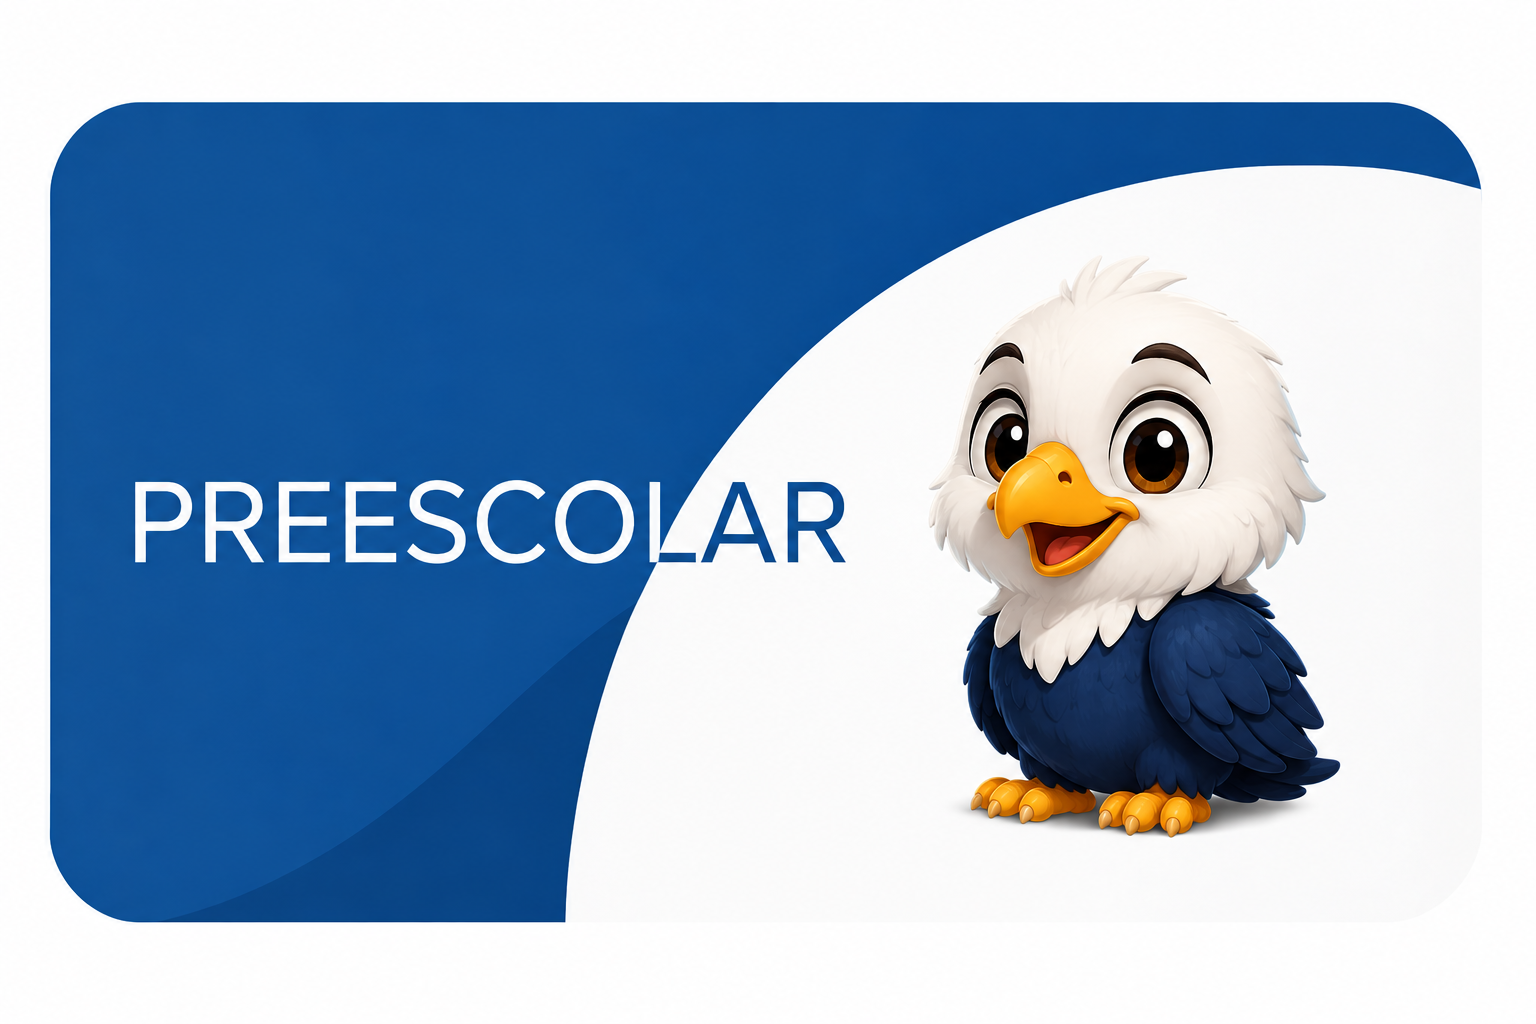
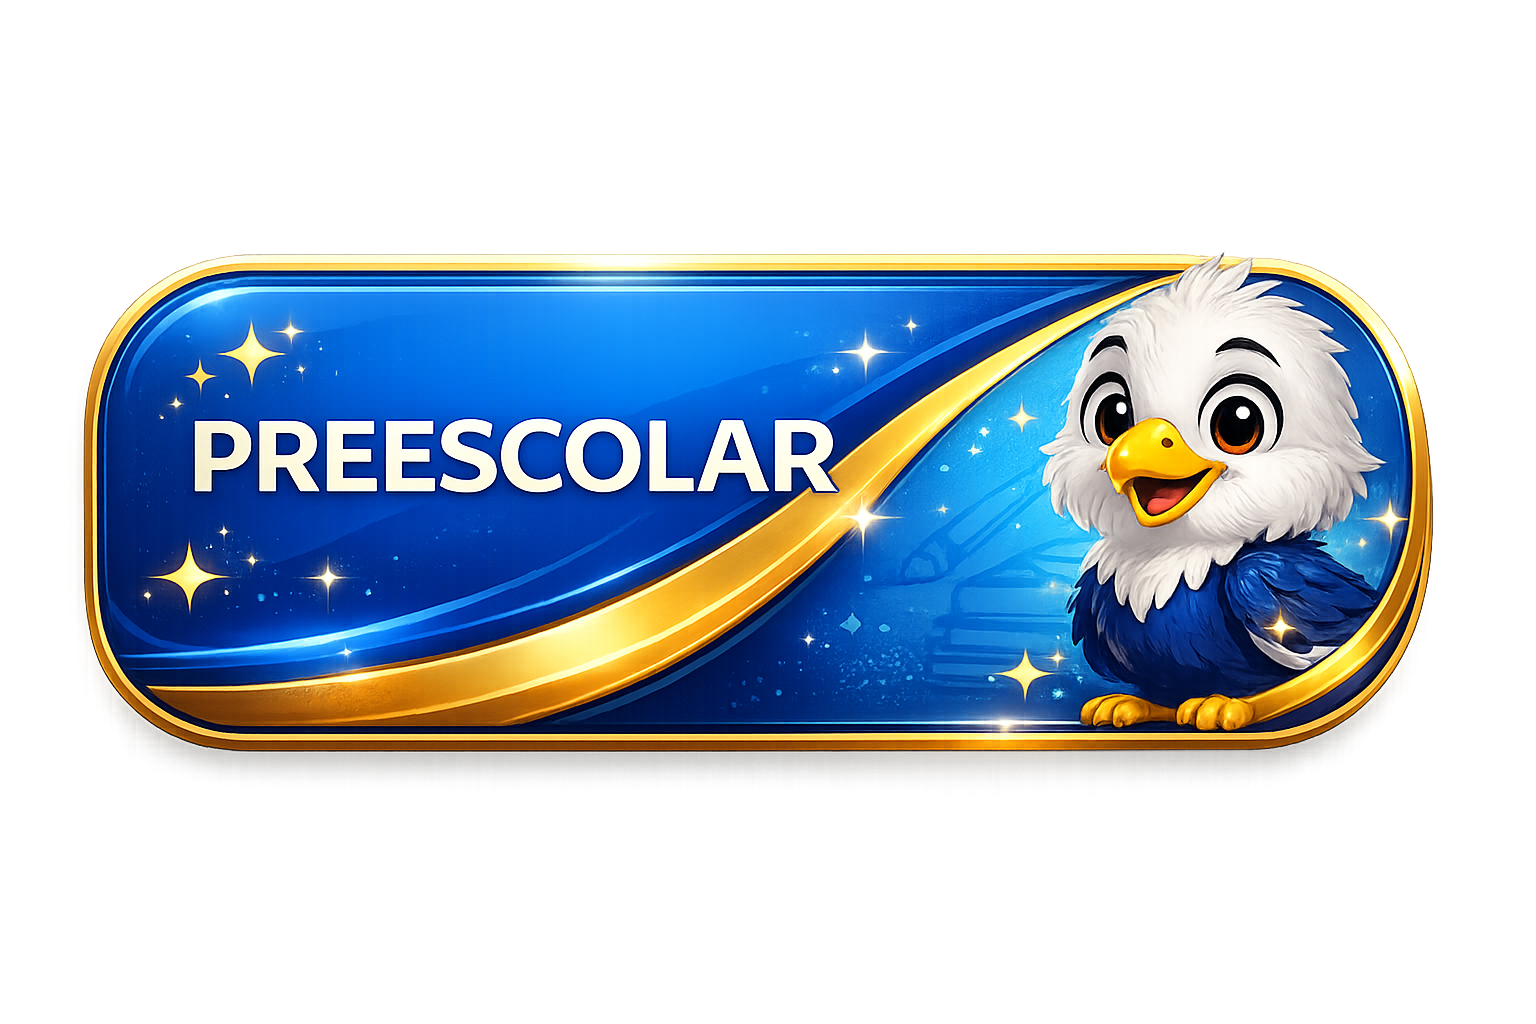
coso

diff --git a/css/style.css b/css/style.css
@@ -260,12 +260,23 @@ a:focus-visible, button:focus-visible, input:focus-visible, textarea:focus-visib
 
 .tarjeta-nivel:hover { transform: translateY(-4px); box-shadow: var(--sombra-hover); }
 
-.tarjeta-nivel .tarjeta-nivel-img {
-  width: 100%;
-  aspect-ratio: 3 / 2;
-  object-fit: cover;
-  display: block;
+.tarjeta-nivel .tarjeta-nivel-insignia {
+  background: linear-gradient(165deg, var(--azul-tinte) 0%, var(--blanco) 75%);
+  padding: 34px 22px 20px;
+  display: flex;
+  align-items: center;
+  justify-content: center;
 }
+
+.tarjeta-nivel .tarjeta-nivel-insignia img {
+  width: 100%;
+  max-width: 300px;
+  height: auto;
+  filter: drop-shadow(0 12px 18px rgba(22, 48, 92, 0.20));
+  transition: transform 0.2s ease;
+}
+
+.tarjeta-nivel:hover .tarjeta-nivel-insignia img { transform: scale(1.03); }
 
 .tarjeta-nivel-contenido {
   padding: 20px 22px 24px;
@@ -316,69 +327,101 @@ a:focus-visible, button:focus-visible, input:focus-visible, textarea:focus-visib
 }
 
 /* ============================================================
-   NIVEL — nivel.html (grilla de grados)
+   NIVEL — nivel.html (banner del nivel + grados en cuadritos)
    ============================================================ */
 
-.encabezado-nivel {
-  padding: 46px 0 30px;
-  border-bottom: 1px solid var(--borde);
+.hero-nivel { padding: 22px 0 0; }
+
+.hero-nivel-img-cont {
+  border-radius: var(--radio);
+  overflow: hidden;
+  box-shadow: var(--sombra);
+  line-height: 0;
 }
 
-.encabezado-nivel .pastilla { margin-bottom: 14px; }
-.encabezado-nivel h1 { font-size: clamp(1.8rem, 3.4vw, 2.5rem); color: var(--azul); }
-.encabezado-nivel p { max-width: 560px; margin-top: 10px; }
+.hero-nivel-img-cont img {
+  width: 100%;
+  height: auto;
+  display: block;
+}
 
-.grados-seccion { padding: 40px 0 70px; }
+.panel-grados {
+  background: var(--blanco);
+  border-radius: var(--radio);
+  box-shadow: var(--sombra-hover);
+  margin: -44px 0 0;
+  padding: 36px 32px 8px;
+  position: relative;
+  z-index: 5;
+}
+
+@media (max-width: 640px) {
+  .panel-grados { margin-top: -28px; padding: 26px 20px 4px; }
+}
+
+.panel-grados .pastilla { margin-bottom: 12px; }
+.panel-grados h2 { font-size: clamp(1.4rem, 2.6vw, 1.85rem); color: var(--azul); margin-bottom: 8px; }
+.panel-grados > p { max-width: 560px; margin-bottom: 26px; }
+
+.grados-seccion { padding: 0 0 70px; }
 
 .grados-grilla {
   display: grid;
-  grid-template-columns: repeat(auto-fill, minmax(230px, 1fr));
-  gap: 20px;
-  position: relative;
+  grid-template-columns: repeat(auto-fill, minmax(210px, 1fr));
+  gap: 18px;
 }
 
 .tarjeta-grado {
-  background: var(--blanco);
-  border: 1px solid var(--borde);
-  border-radius: var(--radio);
-  padding: 24px 22px;
+  position: relative;
+  overflow: hidden;
+  aspect-ratio: 4 / 3;
+  border-radius: var(--radio-chico);
+  padding: 18px;
   display: flex;
   flex-direction: column;
-  gap: 12px;
-  transition: transform 0.15s ease, box-shadow 0.15s ease, border-color 0.15s ease;
+  justify-content: flex-end;
+  color: var(--blanco);
+  background: linear-gradient(155deg, var(--azul-medio) 0%, var(--azul-oscuro) 100%);
+  transition: transform 0.15s ease, box-shadow 0.15s ease;
 }
 
-.tarjeta-grado:hover {
-  transform: translateY(-3px);
-  box-shadow: var(--sombra);
-  border-color: transparent;
+.tarjeta-grado::before {
+  content: "";
+  position: absolute;
+  inset: 0;
+  background: radial-gradient(circle at 85% 8%, rgba(244, 180, 0, 0.30), transparent 55%);
+  pointer-events: none;
 }
 
-.tarjeta-grado .indice {
+.tarjeta-grado:hover { transform: translateY(-4px); box-shadow: var(--sombra); }
+
+.tarjeta-grado .edad {
+  position: relative;
   font-family: var(--fuente-mono);
-  font-size: 0.72rem;
-  color: var(--texto-suave);
+  font-size: 0.68rem;
+  color: var(--amarillo);
+  margin-bottom: 4px;
 }
 
-.tarjeta-grado h3 { font-size: 1.28rem; color: var(--azul); }
-.tarjeta-grado p { font-size: 0.88rem; margin: 0; }
-
-.tarjeta-grado .pie {
-  margin-top: auto;
-  display: flex;
-  align-items: center;
-  justify-content: space-between;
-  padding-top: 6px;
+.tarjeta-grado h3 {
+  position: relative;
+  font-size: 1.35rem;
+  color: var(--blanco);
+  margin-bottom: 8px;
 }
 
 .tarjeta-grado .ver-mas {
+  position: relative;
   font-weight: 600;
-  font-size: 0.86rem;
-  color: var(--azul-medio);
+  font-size: 0.82rem;
+  color: var(--blanco);
+  opacity: 0.9;
   display: inline-flex;
   align-items: center;
   gap: 4px;
 }
+.tarjeta-grado .ver-mas svg { transition: transform 0.15s ease; }
+.tarjeta-grado:hover .ver-mas svg { transform: translateX(4px); }
 
 /* ============================================================
    GRADO — grado.html (detalle: fotos, descripción, inscribirse)

diff --git a/js/main.js b/js/main.js
@@ -22,7 +22,9 @@ function initInicio() {
   NIVELES.forEach((nivel) => {
     const tarjeta = crearElemento(`
       <a class="tarjeta-nivel" href="nivel.html?nivel=${nivel.id}">
-        <img class="tarjeta-nivel-img" src="${nivel.imagen}" alt="${nivel.nombre}">
+        <div class="tarjeta-nivel-insignia">
+          <img src="${nivel.imagen}" alt="Insignia de ${nivel.nombre}">
+        </div>
         <div class="tarjeta-nivel-contenido">
           <span class="lema">${nivel.lema}</span>
           <p>${nivel.descripcion}</p>
@@ -71,23 +73,24 @@ function initNivel() {
   const nivel = obtenerNivel(nivelId) || NIVELES[0];
   const grados = gradosPorNivel(nivel.id);
 
+  $("#nivel-banner-img").src = nivel.banner;
+  $("#nivel-banner-img").alt = `Inscripciones abiertas — ${nivel.nombre}, Real Colegio San José`;
+
   $("#nivel-pastilla").textContent = nivel.nombre;
   if (nivel.color === "amarillo") $("#nivel-pastilla").classList.add("amarilla");
-  $("#nivel-titulo").textContent = nivel.nombre;
+  $("#nivel-titulo").textContent = `Grados de ${nivel.nombre}`;
   $("#nivel-descripcion").textContent = nivel.descripcion;
   document.title = `${nivel.nombre} — Registro Real Colegio San José`;
+  const miga = $("#nivel-titulo-miga");
+  if (miga) miga.textContent = nivel.nombre;
 
   const cont = $("#grados-cont");
-  grados.forEach((grado, i) => {
+  grados.forEach((grado) => {
     const tarjeta = crearElemento(`
       <a class="tarjeta-grado" href="grado.html?grado=${grado.id}">
-        <span class="indice">Grado ${i + 1} de ${grados.length}</span>
+        <span class="edad">${grado.edad}</span>
         <h3>${grado.nombre}</h3>
-        <p>${grado.descripcionCorta}</p>
-        <div class="pie">
-          <span class="pastilla">${grado.edad}</span>
-          <span class="ver-mas">Ver grado ${ICONOS.flecha()}</span>
-        </div>
+        <span class="ver-mas">Ver grado ${ICONOS.flecha()}</span>
       </a>
     `);
     cont.appendChild(tarjeta);

diff --git a/nivel.html b/nivel.html
@@ -25,14 +25,22 @@
 </header>
 
 <main>
-  <section class="encabezado-nivel envoltura">
-    <span class="pastilla" id="nivel-pastilla"></span>
-    <h1 id="nivel-titulo"></h1>
-    <p id="nivel-descripcion"></p>
+  <section class="hero-nivel envoltura">
+    <div class="hero-nivel-img-cont">
+      <img id="nivel-banner-img" src="" alt="">
+    </div>
   </section>
 
-  <section class="grados-seccion envoltura">
-    <div class="grados-grilla" id="grados-cont"></div>
+  <section class="envoltura">
+    <div class="panel-grados">
+      <span class="pastilla" id="nivel-pastilla"></span>
+      <h2 id="nivel-titulo"></h2>
+      <p id="nivel-descripcion"></p>
+
+      <div class="grados-seccion">
+        <div class="grados-grilla" id="grados-cont"></div>
+      </div>
+    </div>
   </section>
 </main>
 
@@ -46,9 +54,6 @@
 <script src="js/data.js"></script>
 <script src="js/iconos.js"></script>
 <script src="js/main.js"></script>
-<script>
-  initNivel();
-  document.getElementById("nivel-titulo-miga").textContent = document.getElementById("nivel-titulo").textContent;
-</script>
+<script>initNivel();</script>
 </body>
 </html>

diff --git a/js/data.js b/js/data.js
@@ -11,7 +11,8 @@ const NIVELES = [
     lema: "Los primeros pasos",
     descripcion: "El punto de partida: juego, exploración y las primeras letras.",
     color: "amarillo",
-    imagen: "assets/nivel-preescolar.png"
+    imagen: "assets/nivel-preescolar.png",
+    banner: "assets/banner-preescolar.png"
   },
   {
     id: "primaria",
@@ -19,7 +20,8 @@ const NIVELES = [
     lema: "Construyendo las bases",
     descripcion: "De Primero a Quinto, donde se afianzan la lectura, la escritura y el pensamiento lógico.",
     color: "azul",
-    imagen: "assets/nivel-primaria.png"
+    imagen: "assets/nivel-primaria.png",
+    banner: "assets/banner-primaria.png"
   },
   {
     id: "secundaria",
@@ -27,7 +29,8 @@ const NIVELES = [
     lema: "Rumbo a la universidad",
     descripcion: "De Sexto a Once, formación integral y preparación para la vida después del colegio.",
     color: "azulOscuro",
-    imagen: "assets/nivel-secundaria.png"
+    imagen: "assets/nivel-secundaria.png",
+    banner: "assets/banner-secundaria.png"
   }
 ];
 
